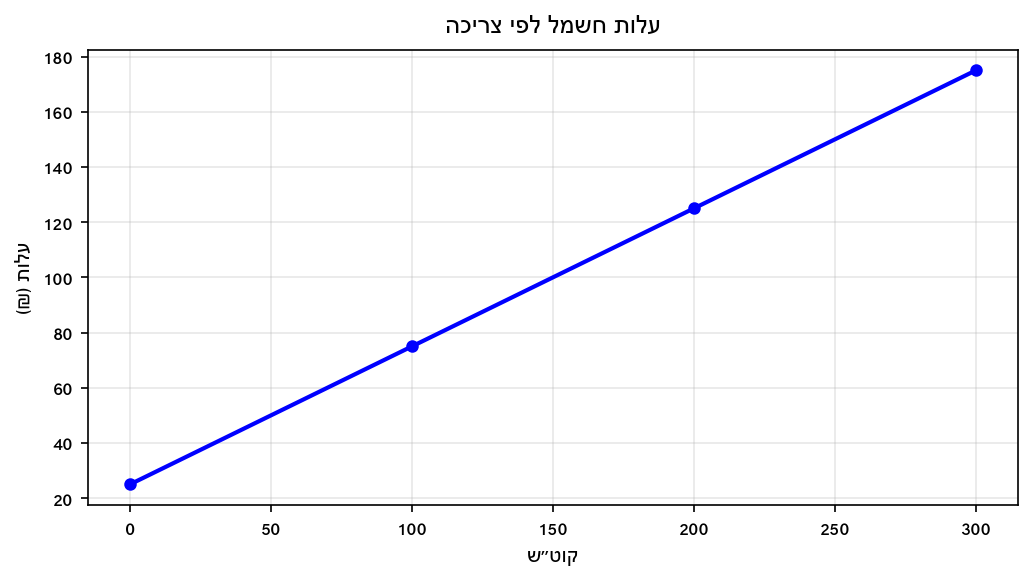
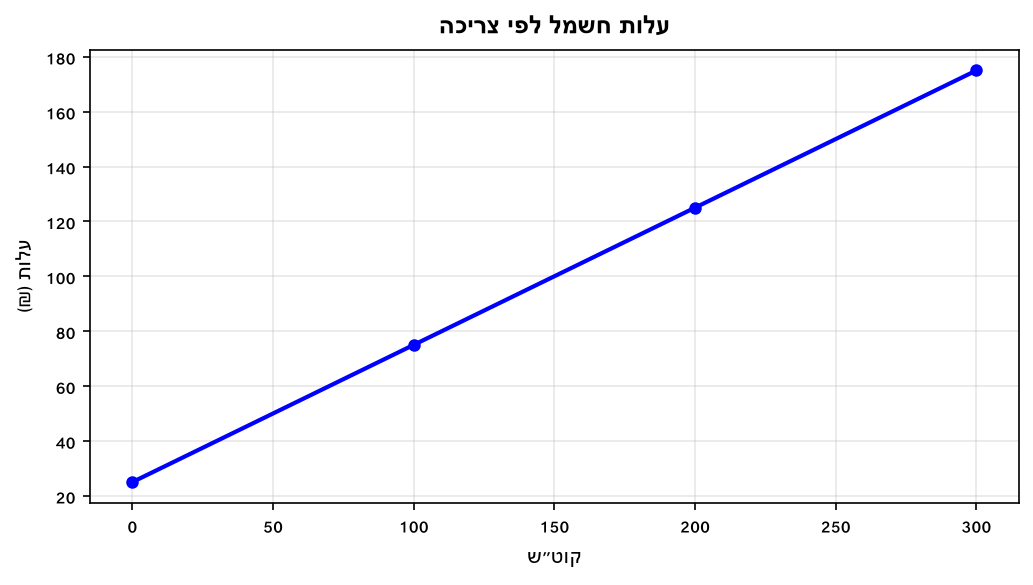
fix 3.1

diff --git a/generate_graphs.py b/generate_graphs.py
@@ -1,8 +1,8 @@
 #!/usr/bin/env python3
 """Generate graphs for all Chapter 3 exercises and update markdown files.
 
-Hebrew labels use python-bidi ``get_display()`` so text renders correctly with
-matplotlib's left-to-right layout (plain Hebrew strings would appear mirrored).
+Hebrew labels are stored in logical order. Matplotlib + Arial Hebrew render RTL
+correctly on their own — do NOT apply python-bidi ``get_display()`` (that mirrors text).
 """
 
 import matplotlib
@@ -17,13 +17,11 @@ import re
 plt.rcParams['font.family'] = ['Arial Hebrew', 'Arial Unicode MS', 'Arial', 'DejaVu Sans']
 plt.rcParams['axes.unicode_minus'] = False
 
-from bidi.algorithm import get_display
-
 def h(text):
-    """Fix Hebrew RTL for matplotlib (reorder characters for LTR renderer)."""
+    """Pass-through for graph labels (plain logical Hebrew — no bidi transform)."""
     if text is None:
         return text
-    return get_display(str(text))
+    return str(text)
 
 _WORKSPACE = os.path.dirname(os.path.abspath(__file__))
 CHAPTER_DIR = os.path.join(_WORKSPACE, "3 - קריאת והבנת מידע מגרפים מסיפורי מעשה")
@@ -509,8 +507,35 @@ def run_update_markdowns():
 
 # ── Main ──────────────────────────────────────────────────────────────────────
 if __name__ == '__main__':
+    import sys
+    subs = [int(s) for s in sys.argv[1:]] if len(sys.argv) > 1 else None
+
     print("=== Generating graphs ===")
-    run_generate()
-    print("\n=== Updating markdown files ===")
-    run_update_markdowns()
-    print("\nDone!")
+    total = 0
+    for d in E:
+        if subs and d['sub'] not in subs:
+            continue
+        fname = f"3_{d['sub']}_ex{d['ex']:02d}.png"
+        make_graph(
+            fname,
+            d['title'],
+            d['xl'],
+            d['yl'],
+            d['x'],
+            d['y'],
+            x2=d.get('x2'),
+            y2=d.get('y2'),
+            lbl1=d.get('lbl1'),
+            lbl2=d.get('lbl2'),
+            time_x=d.get('time_x', False),
+            bar=d.get('bar', False),
+        )
+        total += 1
+    print(f"\n✓ Generated {total} graphs in: {IMAGES_DIR}")
+
+    if subs is None:
+        print("\n=== Updating markdown files ===")
+        run_update_markdowns()
+        print("\nDone!")
+    else:
+        print(f"\nDone! (subtopics {subs} only — markdown not modified)")

diff --git a/3 - קריאת והבנת מידע מגרפים מסיפורי מעשה/1_היכרות_עם_צירי_הגרף.md b/3 - קריאת והבנת מידע מגרפים מסיפורי מעשה/1_היכרות_עם_צירי_הגרף.md
@@ -13,7 +13,7 @@
 
 ב. מה מציין ציר ה-y בגרף זה?
 
-ג. מה פירוש הנקודה הראשונה בטבלה (קוט"ש = 0)?
+ג. מה פירוש הנקודה הראשונה בגרף (קוט"ש = 0)?
 
 ---
 
@@ -26,7 +26,7 @@
 
 ב. מה מציין ציר ה-y?
 
-ג. מה פירוש הנקודה הראשונה בטבלה?
+ג. מה פירוש הנקודה הראשונה בגרף?
 
 ---
 
@@ -39,7 +39,7 @@
 
 ב. מה מציין ציר ה-y?
 
-ג. מה פירוש הנקודה הראשונה בטבלה?
+ג. מה פירוש הנקודה הראשונה בגרף?
 
 ---
 
@@ -52,7 +52,7 @@
 
 ב. מה מציין ציר ה-y?
 
-ג. מה פירוש הנקודה האחרונה בטבלה?
+ג. מה פירוש הנקודה האחרונה בגרף?
 
 ---
 
@@ -120,7 +120,7 @@
 
 ב. מה פירוש הקטע שבו ה-y שווה לאותו ערך לאורך זמן?
 
-ג. מה פירוש הנקודה האחרונה בטבלה?
+ג. מה פירוש הנקודה האחרונה בגרף?
 
 ד. בין אילו דקות עמד הספורטאי במקום?
 
@@ -206,7 +206,7 @@
 
 א. מה מציין כל ציר?
 
-ב. מה פירוש הנקודה הראשונה בטבלה?
+ב. מה פירוש הנקודה הראשונה בגרף?
 
 ג. מה כמות החיידקים לאחר 8 שעות בחיידקים ממש (לא באלפים)?
 
@@ -237,7 +237,7 @@
 
 ב. מה פירוש הנקודה שבה x=0, ומה המשמעות המעשית שלה?
 
-ג. כמה עולה נסיעה של 150 ק"מ?
+ג. כמה עולה נסיעה של 100 ק"מ?
 
 ד. לקוח שילם 500 ₪ — כמה ק"מ נסע?
 
@@ -381,7 +381,7 @@ $512{ }000$
 17.
 א. ציר x: מרחק נסיעה (ק"מ), ציר y: עלות (₪).
 ב. עלות בסיס (דמי השכרה ללא נסיעה) = 200 ₪.
-ג. 425 ₪.
+ג. 350 ₪.
 ד. 200 ק"מ.
 
 18.

diff --git a/scripts/פרומפט_בדיקת_איכות_קובץ_תרגילים.md b/scripts/פרומפט_בדיקת_איכות_קובץ_תרגילים.md
@@ -18,6 +18,11 @@
 
 בעת תיקונים: עדכן רק ניסוח שאלות וערכי תשובות שגויים. אל תשנה מבנה Markdown, שורות ריקות, או סידור שורות בתשובות.
 
+**אזהרות קריטיות — גרפים ועברית:**
+- מחרוזות עברית ב-`generate_graphs.py` נשמרות בסדר לוגי רגיל (למשל `גובה ילדה לפי גיל`). **אסור** להפוך אותיות ידנית ו**אסור** להשתמש ב-`python-bidi` / `get_display()` — matplotlib מציג עברית נכון בלי זה, ו-bidi הופך את הטקסט ללא קריא בגרף.
+- אחרי יצירה מחדש של תמונות — פתח לפחות גרף אחד ובדוק שהכותרת ותוויות הצירים קריאות בעברית (לא הפוכות).
+- **אל** תריץ את `update_markdown` / אל תשנה את קובץ ה-Markdown מלבד ניסוח שאלות וערכי תשובות — לא להוסיף/להסיר שורות ריקות, לא לשנות סדר שורות, לא לגעת ב-`<details>`.
+
 ---
 
 בדוק את הקובץ הבא תרגיל אחרי תרגיל. עבור כל תרגיל בדוק את שלושת הדברים הבאים:
